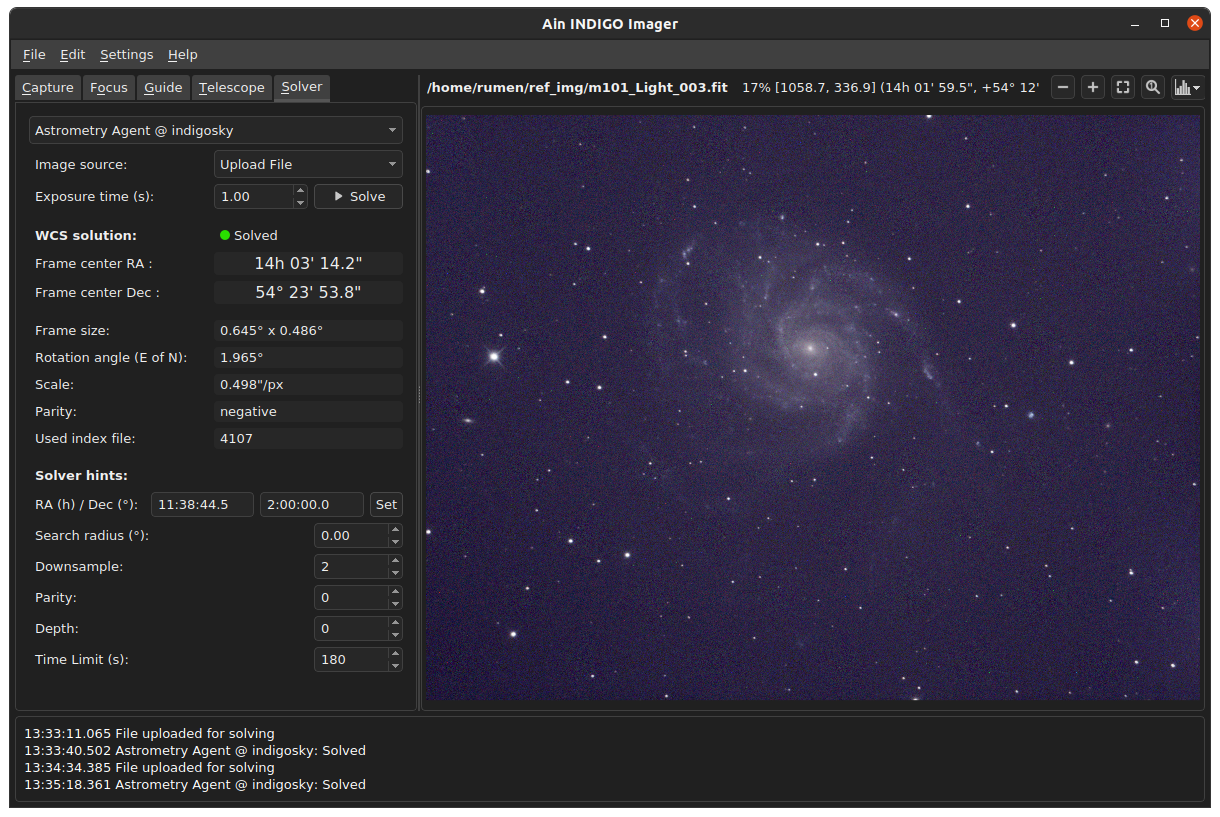
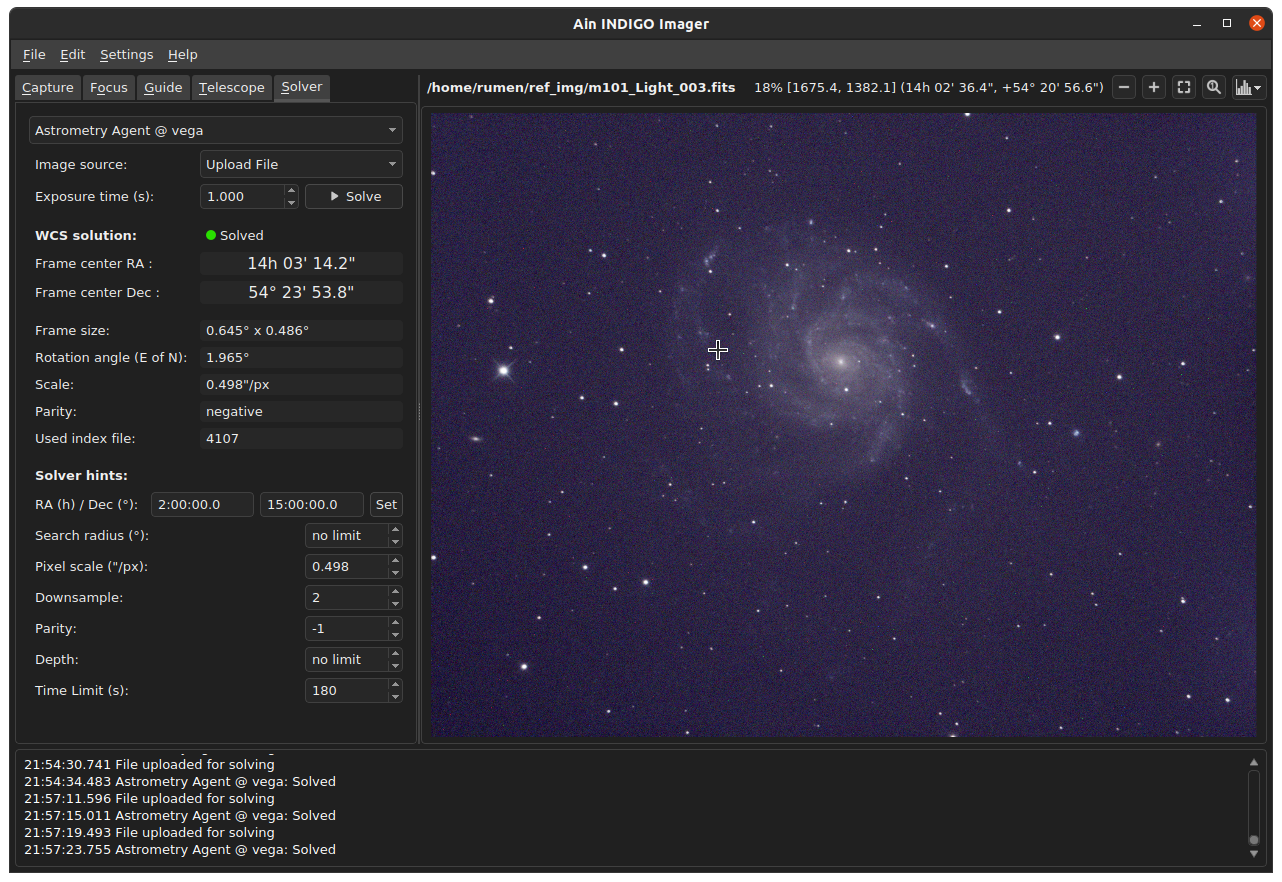
PLATE_SOLVING.md: updated with the automatic index selection

Changed region(s): [[0.0, 0.0, 0.9967, 0.8874], [0.0, 0.8568, 0.9967, 1.0]]

diff --git a/indigo_docs/PLATE_SOLVING.md b/indigo_docs/PLATE_SOLVING.md
@@ -1,6 +1,6 @@
 # INDIGO Astrometry Agent - Plate Solving Guide
 
-Revision: 13.06.2022 (draft)
+Revision: 24.10.2022 (draft)
 
 Author: **Rumen G.Bogdanovski**
 
@@ -30,13 +30,15 @@ All downloaded indexes from all catalogs will be shown in *Use indexes* property
 
 It is a general rule of thumb that the less index files are selected the faster the solution will be found provided that the correct indexes are selected. In many cases you will need only one index - the one shown in *Used index file* item in *Astrometry Agent* -> *Plate solver* -> *WCS Solution* after a successful solution, But if no solution is found please add more indexes until a solution is found. Then you can try to narrow down the index selection.
 
+Another approach is to let solver automatically choose the correct index from the selected indexes. This is done by setting the **Pixel Scale** parameter (described below). The main advantage of this approach is that selecting all indexes will not hinder the performance, because the solver will avoid looking through all selected indexes and go directly to the correct index if it is selected. Otherwise it will fail immediately. The main disadvantage is that indexes are gigabytes in size and will use a lot of disk space.
+
 ## Hint configuration
 Some *Hints* can be provided to the solver engine to speed up the solving process as it may take a long time. Here are the parameters:
 - **Search Radius** - This is the radius in degrees around the given coordinates to search for a solution. *0* means "blind solve" or search the entire sky starting from the provided coordinates.
 - **RA** and **Dec** - approximate coordinates (Right Ascension and Declination) of the frame center to start the search. They can be entered manually or if a related mount agent is selected the mount coordinates will be used here. This may speedup the solution to less than a second in some cases.
-- **J2000** - This is a flag indicating if the coordinates are in J2000 or JNow.
-- **Pixel scale** - If the pixel scale of the system is known setting this parameter may speed up the process. It is in degrees/pixel. It is safe to leave it to 0.
-- **Parity** - positive (1) or negative(-1) if unknown (0). Flipping an image reverses its **parity**. If you use a refactor telescope, it probably has negative parity. If you use reflector, it probably has positive parity. Selecting the right parity will make the solving process run faster, but if in doubt use unknown.
+- **J2000** - This is a flag indicating if the coordinates of the solution should be in J2000 or JNow.
+- **Pixel scale** - If the pixel scale of the optical system is known setting it as a hint will significantly speed up the process. This hint is in degrees/pixel (in Ain "/pixel is used). It is safe to set it to 0 (no clue), but it could solve much slower as it will look through all selected index files. Since INDIGO 2.0-200, solver agents can use the pixel scale of the selected camera. To enable it, the correct focal length of the telescope must be set in *CCD_LENS* property of the camera: *\<Selected Camera\>* -> *Camera* -> *Lens info* and to set **Pixel Scale** to a negative value. Negative pixel scale tells the solver agent to use the scale of the selected camera. If the focal length of the telescope is not set the solver will assume that **Pixel scale** = 0 and will look through all selected indexes. Setting **Pixel Scale** correctly is essential as it will point the solver to one particular index file and if it is not correct the solving will fail.
+- **Parity** - positive (1) or negative(-1) if unknown (0). Flipping an image reverses its **parity**. If you use a refactor telescope, it probably has negative parity. If you use reflector, it probably has positive parity. Selecting the right parity will make the solving process run faster, but if in doubt use unknown. It is advised, once there is one solved frame to use the reported parity as a hint, because this may speed up solving for the subsequent frames significantly.
 - **Downsample** - You can downsample your image by a given factor before performing the source (star) extraction. This speeds up the process but a large downsamle will reduce the accuracy. Default is 2 and we recommend to use it.
 - **Depth** - The solver works by looking at sources (stars) in your image, starting with the brightest. It searches for all *skymarks* that can be built from the *N* brightest stars before considering star *N+1*. When using several index files, it can be much faster to search for many *skymarks* in one index file before switching to the next one. This flag lets you control when the solver switches between index files. It also lets you control how much effort the solver puts in before giving up - by default (0) it looks at all the sources in your image.
 - **CPU limit** - CPU time limit in seconds before giving up. Default is 180s which is probably too much. Usually if it does not solve the image in several tens of seconds the configuration needs to be optimized.
@@ -57,5 +59,10 @@ Here is a view of the solver tab in Ain INDIGO Imager:
 Here is a view of the solver window in INDIGO A1:
 
 ![](PLATE_SOLVING/A1_screenshot.png)
+
+## The most effective ways to optimize the solver performance
+There are two main ways to improve significantly the overall solver performance:
+1. Use the correct index - choose it manually or automatically (by setting the correct **Pixel scale** hint).
+2. Use correct **Parity** hint.
 
 Clear skies!  
